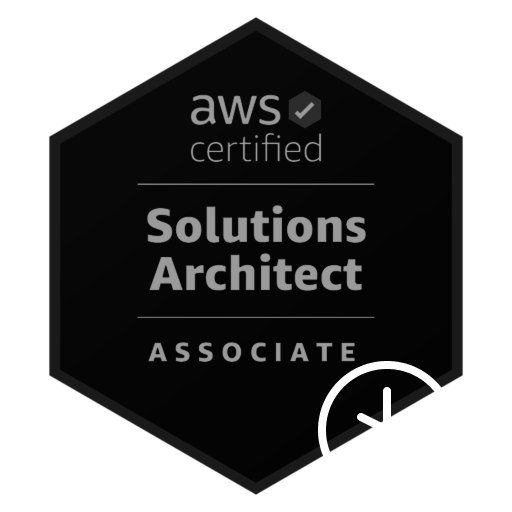
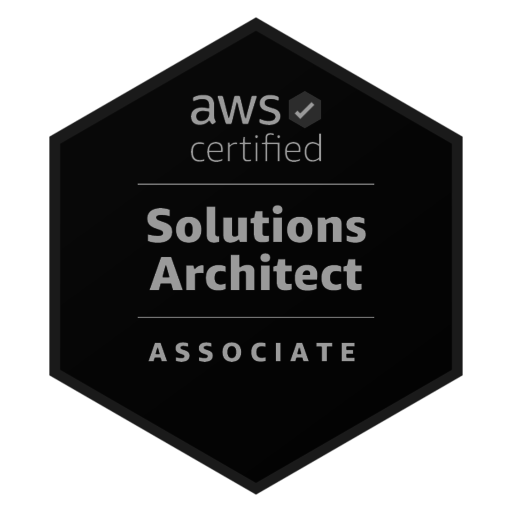
more updates

Changed region(s): [[0.5938, 0.6875, 0.875, 0.9062], [0.6875, 0.7812, 0.75, 0.8438]]

diff --git a/app/hero.jsx b/app/hero.jsx
@@ -55,8 +55,8 @@ export default function Hero() {
                 <i className="fa-solid fa-book ml-2"></i>
               </a>
             </div>
-            <div>
-              <a href="#" className="flex justify-center">
+            <div className="relative">
+              <a href="#projects" className="flex justify-center">
                 <img
                   src="/aws-cloud-practitioner.png"
                   width={100}
@@ -65,14 +65,20 @@ export default function Hero() {
                 />
               </a>
             </div>
-            <div>
+            <div className="relative">
               <a href="#projects" className="flex justify-center">
                 <img
-                  src="/aws-solutions-architect.svg"
-                  width={110}
-                  height={110}
-                  alt="AWS Cloud Badge"
+                  src="/aws-solutions-architect.png"
+                  width={100}
+                  height={100}
+                  alt="AWS Solutions Architect Associate Badge"
+                  className="opacity-50"
                 />
+                <div className="absolute inset-0 flex items-center justify-center">
+                  <span className="text-xs text-white bg-black bg-opacity-50 px-2 py-1 rounded">
+                    Studying
+                  </span>
+                </div>
               </a>
             </div>
           </div>
